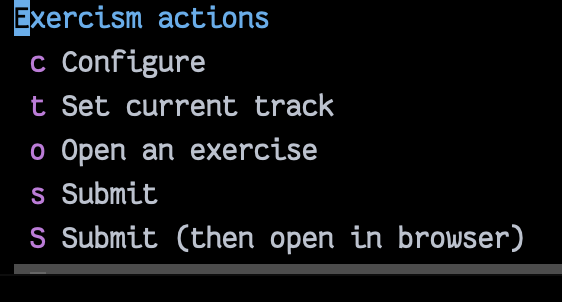
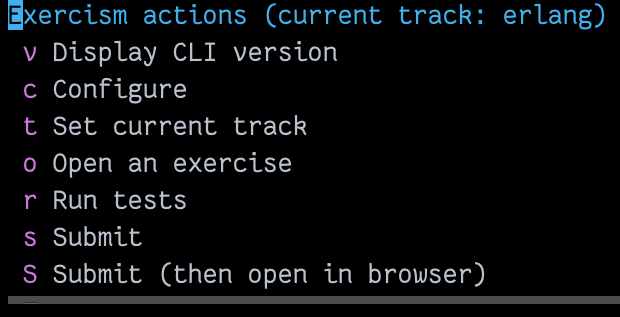
Update README to mention tests

Changed region(s): [[0.0, 0.0, 0.9982, 0.5662], [0.0, 0.7152, 1.0, 0.9834], [0.0302, 0.596, 0.3025, 0.6854]]

diff --git a/README.md b/README.md
@@ -30,6 +30,12 @@ Time to get into it! Note that some exercises may still be unlocked, yet "select
 
 <img src="./demos/open-exercise.png" width=700 />
 
+## `Run tests`
+Run tests! You can see the results in the `*exercism-test*` buffer.
+If you want this buffer to automatically "pop-up" after the tests run, set `exercism-display-tests-after-run` to `t`.
+
+(Only for CLI version 3.2.0 onwards, (run `exercism-cli-version` to check))
+
 ## `Submit`
 Submits the current directory as a solution. Note that to mark the exercise as "completed", you'll have to do it via the web app.
 
